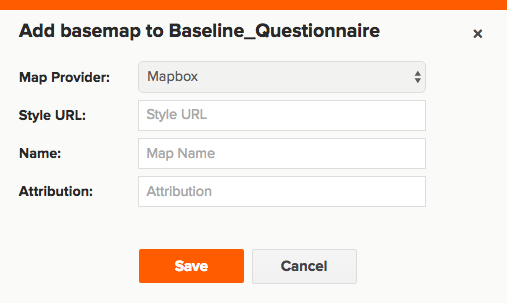
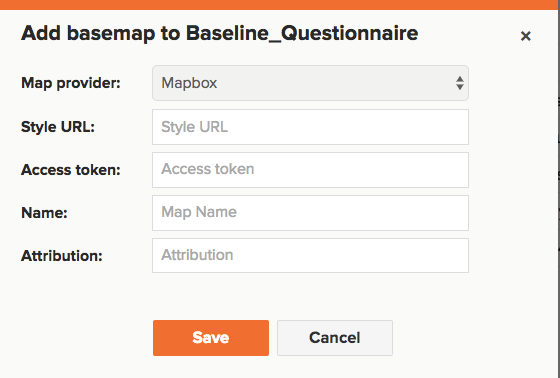
BM:Basemap Update

diff --git a/faqs/_posts/2016-10-27-faq-basemaps.md b/faqs/_posts/2016-10-27-faq-basemaps.md
@@ -43,9 +43,13 @@ This opens the **Add basemap** window where you can input the below information 
     A new page will be displayed with the style url as highlighted below. Copy this and add it to the **Add Basemap** window.
 
     ![](/content/screenshots/faq/faq-basemap-6.png)
+    
+3. **Access Token** - Mapbox uses access tokens to associate requests to API resources with your account. Copy the access token url from your account as shown in the screenshot below.and Add it to the **Add Basemap window**. 
+
+    ![](/content/screenshots/faq/faq-basemap-11.png)
    
-3. **Name** - The name of your basemap. This will be displayed on the list of available maps for your form.
-4. **Attribution** - (Optional) Any attribution to the appropriate organization(s) owning the copyright to the basemap. This attribution will appear in the map view. 
+4. **Name** - The name of your basemap. This will be displayed on the list of available maps for your form.
+5. **Attribution** - (Optional) Any attribution to the appropriate organization(s) owning the copyright to the basemap. This attribution will appear in the map view. 
 
 **Save** the information entered.
 

diff --git a/faqs/_posts/2017-02-21-faq-public-projects.md b/faqs/_posts/2017-02-21-faq-public-projects.md
@@ -13,7 +13,7 @@ A key characteristic that forms share within a project are the [access permissio
 
 Public projects and forms are visible and findable by anyone. Anyone can view and download data from the forms in the project and can be viewed on your [public profile page.](https://help.ona.io/guides/user-accounts/#edit-profile)
 
-To view anyone’s public project, append the username to the Ona URL ona.io/<username> e.g (https://ona.io/betatester). A list of all the public projects will be displayed. This might be undesirable if you have any sensitive information that should not be accessed by anyone.
+To view anyone’s public project, append the username to the Ona URL ona.io/**username** e.g (https://ona.io/betatester). A list of all the public projects will be displayed. This might be undesirable if you have any sensitive information that should not be accessed by anyone.
 
 You can view whether a project is public or private when you click on it. The project will display PUBLIC or PRIVATE as shown below:
 
